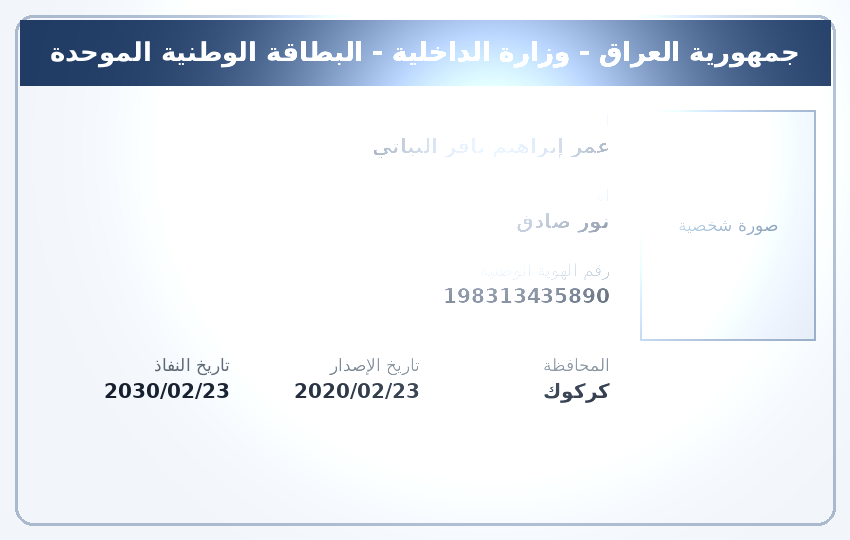
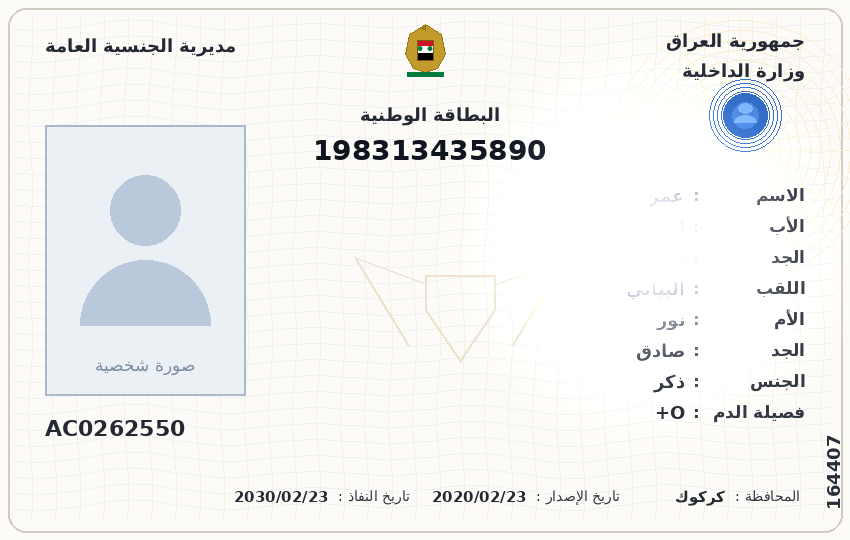
feat(data): redesign national ID to authentic Iraqi layout and update demo samples
- Match authentic Iraqi Unified National Card layout per official guidelines (Arabic-only)
- Add official header, Eagle emblem, prominent ID number, blue holographic rosette, and vertical field hierarchy
- Regenerate national ID samples and updated defect bounding boxes in demo_samples/

diff --git a/src/data/synthetic_generator.py b/src/data/synthetic_generator.py
@@ -6,6 +6,7 @@ exact pixel bounding boxes, and localized optical defects (glare, blur, tilt).
 """
 
 import json
+import math
 import random
 from dataclasses import dataclass
 from pathlib import Path
@@ -215,65 +216,228 @@ def render_national_card(
     identity: dict[str, str],
     fonts: dict[str, ImageFont.FreeTypeFont],
 ) -> tuple[Image.Image, dict[str, DocumentField]]:
-    """Render authentic synthetic front-face Iraqi Unified National Card."""
+    """Render authentic synthetic front-face Iraqi Unified National Card matching official layout."""
     width, height = 850, 540
-    card = Image.new("RGB", (width, height), (242, 246, 250))
+    card = Image.new("RGB", (width, height), (252, 251, 248))
     draw = ImageDraw.Draw(card)
 
-    # Outer border and header banner
-    draw.rounded_rectangle(
-        [(15, 15), (width - 15, height - 15)],
-        radius=18,
-        outline=(170, 185, 205),
-        width=3,
+    dark_gray = (35, 40, 50)
+    label_gray = (50, 55, 65)
+    eagle_gold = (195, 155, 45)
+    iraq_red = (206, 17, 38)
+    iraq_black = (0, 0, 0)
+    iraq_green = (0, 122, 61)
+
+    # Outer card border
+    draw.rounded_rectangle([(8, 8), (width - 8, height - 8)], radius=18, outline=(210, 205, 195), width=2)
+
+    # Background Guilloche / Security Pattern
+    for y_offset in range(25, height - 20, 16):
+        points = []
+        for x_coord in range(12, width - 12, 6):
+            y_coord = y_offset + int(4 * math.sin(x_coord / 28.0) + 2 * math.cos(x_coord / 45.0))
+            points.append((x_coord, y_coord))
+        draw.line(points, fill=(238, 242, 244), width=1)
+
+    for x_offset in range(30, width - 20, 24):
+        points = []
+        for y_coord in range(12, height - 12, 6):
+            x_coord = x_offset + int(3 * math.sin(y_coord / 24.0))
+            points.append((x_coord, y_coord))
+        draw.line(points, fill=(244, 240, 232), width=1)
+
+    # Golden sunburst rosette in top right
+    sun_cx, sun_cy = width - 110, 150
+    for radius in range(30, 140, 10):
+        draw.arc([sun_cx - radius, sun_cy - radius, sun_cx + radius, sun_cy + radius], start=0, end=360, fill=(250, 236, 208), width=1)
+    for angle in range(0, 360, 15):
+        rad = math.radians(angle)
+        x_target = sun_cx + int(135 * math.cos(rad))
+        y_target = sun_cy + int(135 * math.sin(rad))
+        draw.line([(sun_cx, sun_cy), (x_target, y_target)], fill=(252, 241, 218), width=1)
+
+    # Watermark Eagle in center background
+    center_x, center_y, emblem_size = 460, 310, 105
+    draw.polygon([
+        (center_x, center_y + emblem_size // 2),
+        (center_x - emblem_size // 3, center_y),
+        (center_x - emblem_size // 3, center_y - emblem_size // 3),
+        (center_x + emblem_size // 3, center_y - emblem_size // 3),
+        (center_x + emblem_size // 3, center_y),
+    ], outline=(235, 226, 208), width=2)
+    draw.line(
+        [(center_x - emblem_size // 3, center_y - emblem_size // 4), (center_x - emblem_size, center_y - emblem_size // 2), (center_x - emblem_size // 2, center_y + emblem_size // 3)],
+        fill=(235, 226, 208),
+        width=2,
     )
-    draw.rectangle([(20, 20), (width - 20, 85)], fill=(32, 60, 100))
-
-    header_text = format_arabic("جمهورية العراق - وزارة الداخلية - البطاقة الوطنية الموحدة")
-    draw.text(
-        (width // 2, 52),
-        header_text,
-        font=fonts["title"],
-        fill=(255, 255, 255),
-        anchor="mm",
+    draw.line(
+        [(center_x + emblem_size // 3, center_y - emblem_size // 4), (center_x + emblem_size, center_y - emblem_size // 2), (center_x + emblem_size // 2, center_y + emblem_size // 3)],
+        fill=(235, 226, 208),
+        width=2,
     )
 
-    # Photo box placeholder (Right-hand side per standard Iraqi National Card layout)
-    photo_box = [(width - 210, 110), (width - 35, 340)]
-    draw.rectangle(photo_box, fill=(225, 232, 242), outline=(150, 170, 195), width=2)
-    draw.text(
-        (width - 122, 225),
-        format_arabic("صورة شخصية"),
-        font=fonts["label"],
-        fill=(120, 140, 160),
-        anchor="mm",
+    # Top Header (Arabic only, per instruction)
+    header_font = ImageFont.truetype(fonts["header"].path, 18)
+    draw.text((width - 45, 30), format_arabic("جمهورية العراق"), font=header_font, fill=dark_gray, anchor="ra")
+    draw.text((width - 45, 60), format_arabic("وزارة الداخلية"), font=header_font, fill=dark_gray, anchor="ra")
+    draw.text((45, 35), format_arabic("مديرية الجنسية العامة"), font=header_font, fill=dark_gray, anchor="la")
+
+    # Emblem of Iraq (Eagle with Flag Shield)
+    emblem_cx = width // 2
+    emblem_cy = 46
+    draw.polygon([
+        (emblem_cx, emblem_cy - 22), (emblem_cx - 16, emblem_cy - 12),
+        (emblem_cx - 20, emblem_cy + 8), (emblem_cx - 12, emblem_cy + 22),
+        (emblem_cx, emblem_cy + 26), (emblem_cx + 12, emblem_cy + 22),
+        (emblem_cx + 20, emblem_cy + 8), (emblem_cx + 16, emblem_cy - 12),
+    ], fill=eagle_gold, outline=(155, 120, 20), width=1)
+    draw.polygon([(emblem_cx, emblem_cy - 22), (emblem_cx - 6, emblem_cy - 18), (emblem_cx, emblem_cy - 16)], fill=(155, 120, 20))
+    shield_x, shield_y = emblem_cx - 8, emblem_cy - 6
+    draw.rectangle([(shield_x, shield_y), (shield_x + 16, shield_y + 6)], fill=iraq_red)
+    draw.rectangle([(shield_x, shield_y + 6), (shield_x + 16, shield_y + 13)], fill=(255, 255, 255))
+    draw.rectangle([(shield_x, shield_y + 13), (shield_x + 16, shield_y + 20)], fill=iraq_black)
+    draw.rectangle([(shield_x, shield_y), (shield_x + 16, shield_y + 20)], outline=(120, 95, 20), width=1)
+    draw.text((emblem_cx, shield_y + 9), "••", font=fonts["label"], fill=iraq_green, anchor="mm")
+    draw.rectangle([(emblem_cx - 18, emblem_cy + 26), (emblem_cx + 18, emblem_cy + 30)], fill=iraq_green)
+
+    # Title & National ID Number
+    title_font = ImageFont.truetype(fonts["title"].path, 18)
+    id_font = ImageFont.truetype(fonts["title"].path, 28)
+    draw.text((430, 115), format_arabic("البطاقة الوطنية"), font=title_font, fill=dark_gray, anchor="mm")
+    id_bbox = draw.textbbox((430, 150), identity["national_id"], font=id_font, anchor="mm")
+    draw.text((430, 150), identity["national_id"], font=id_font, fill=(15, 20, 30), anchor="mm")
+
+    # Blue Hologram Rosette Top Right
+    rosette_cx, rosette_cy, r_size = width - 105, 115, 36
+    for r_step in range(r_size, 0, -4):
+        draw.ellipse([rosette_cx - r_step, rosette_cy - r_step, rosette_cx + r_step, rosette_cy + r_step], outline=(50, 110, 200), width=1)
+    draw.ellipse([rosette_cx - 22, rosette_cy - 22, rosette_cx + 22, rosette_cy + 22], fill=(45, 105, 195))
+    draw.ellipse([rosette_cx - 13, rosette_cy - 13, rosette_cx + 13, rosette_cy + 13], fill=(70, 130, 220))
+    draw.ellipse([rosette_cx - 7, rosette_cy - 12, rosette_cx + 7, rosette_cy - 2], fill=(120, 175, 245))
+    draw.chord([rosette_cx - 11, rosette_cy, rosette_cx + 11, rosette_cy + 15], start=180, end=0, fill=(120, 175, 245))
+
+    # Citizen Photo on Left
+    photo_rect = [(45, 125), (245, 395)]
+    draw.rectangle(photo_rect, fill=(235, 240, 245), outline=(170, 185, 200), width=2)
+    draw.ellipse([(110, 175), (180, 245)], fill=(185, 200, 218))
+    draw.chord([(80, 260), (210, 390)], start=180, end=0, fill=(185, 200, 218))
+    draw.text((145, 365), format_arabic("صورة شخصية"), font=fonts["label"], fill=(120, 140, 160), anchor="mm")
+
+    # Document Access Code bottom-left
+    code_font = ImageFont.truetype(fonts["title"].path, 22)
+    draw.text((45, 415), "AC0262550", font=code_font, fill=dark_gray, anchor="la")
+
+    # Right side fields (stacked hierarchy)
+    field_label_font = ImageFont.truetype(fonts["value"].path, 17)
+    field_value_font = ImageFont.truetype(fonts["value"].path, 18)
+
+    words = identity["full_name"].split()
+    father = identity.get("father_name", "")
+    given = words[0] if words else ""
+    surname = words[-1] if len(words) > 1 else ""
+    middle = words[1:-1]
+    if father in middle:
+        f_idx = middle.index(father)
+        grandfather = " ".join(middle[f_idx + 1:])
+    else:
+        grandfather = " ".join(middle[1:]) if len(middle) > 1 else ""
+
+    mother_parts = identity["mother_name"].split()
+    mother_given = mother_parts[0] if len(mother_parts) > 0 else identity["mother_name"]
+    mother_father = mother_parts[1] if len(mother_parts) > 1 else ""
+
+    right_label_x = width - 45
+    colon_x = width - 150
+    value_x = colon_x - 15
+
+    items = [
+        ("الاسم", given),
+        ("الأب", father),
+        ("الجد", grandfather),
+        ("اللقب", surname),
+        ("الأم", mother_given),
+        ("الجد", mother_father),
+        ("الجنس", "ذكر"),
+        ("فصيلة الدم", "+O"),
+    ]
+
+    y_start = 185
+    line_h = 31
+    value_boxes = []
+
+    for index, (label_str, val_str) in enumerate(items):
+        curr_y = y_start + index * line_h
+        draw.text((right_label_x, curr_y), format_arabic(label_str), font=field_label_font, fill=label_gray, anchor="ra")
+        draw.text((colon_x, curr_y), ":", font=field_label_font, fill=label_gray, anchor="ra")
+        formatted_val = format_arabic(val_str)
+        val_bbox = draw.textbbox((value_x, curr_y), formatted_val, font=field_value_font, anchor="ra")
+        draw.text((value_x, curr_y), formatted_val, font=field_value_font, fill=dark_gray, anchor="ra")
+        value_boxes.append(val_bbox)
+
+    name_bboxes = value_boxes[0:4]
+    full_name_bbox = (
+        min(b[0] for b in name_bboxes),
+        min(b[1] for b in name_bboxes),
+        max(b[2] for b in name_bboxes),
+        max(b[3] for b in name_bboxes),
     )
 
-    fields: dict[str, DocumentField] = {}
-    base_x = width - 240
+    mother_bboxes = value_boxes[4:6]
+    mother_name_bbox = (
+        min(b[0] for b in mother_bboxes),
+        min(b[1] for b in mother_bboxes),
+        max(b[2] for b in mother_bboxes),
+        max(b[3] for b in mother_bboxes),
+    )
 
-    bbox = draw_arabic_field(draw, "الاسم الكامل", identity["full_name"], (base_x, 110), fonts)
-    fields["full_name"] = DocumentField("full_name", identity["full_name"], bbox)
+    # Vertical serial number on right edge
+    serial_img = Image.new("RGBA", (100, 30), (255, 255, 255, 0))
+    serial_draw = ImageDraw.Draw(serial_img)
+    serial_draw.text((0, 5), "164407", font=ImageFont.truetype(fonts["title"].path, 18), fill=(40, 45, 55))
+    rot_serial = serial_img.rotate(90, expand=True)
+    card.paste(rot_serial, (width - 32, height - 130), rot_serial)
 
-    bbox = draw_arabic_field(draw, "اسم الأم", identity["mother_name"], (base_x, 185), fonts)
-    fields["mother_name"] = DocumentField("mother_name", identity["mother_name"], bbox)
+    # Bottom metadata row: province, issue date, expiry date
+    bot_y = height - 52
+    field_small_label = ImageFont.truetype(fonts["label"].path, 14)
+    field_small_val = ImageFont.truetype(fonts["value"].path, 15)
 
-    bbox = draw_arabic_field(draw, "رقم الهوية الوطنية", identity["national_id"], (base_x, 260), fonts)
-    fields["national_id"] = DocumentField("national_id", identity["national_id"], bbox)
+    # Province
+    p_label = format_arabic("المحافظة : ")
+    p_x = width - 50
+    draw.text((p_x, bot_y), p_label, font=field_small_label, fill=label_gray, anchor="ra")
+    p_lbl_bbox = draw.textbbox((p_x, bot_y), p_label, font=field_small_label, anchor="ra")
+    p_val_x = p_lbl_bbox[0] - 6
+    formatted_prov = format_arabic(identity["province"])
+    province_bbox = draw.textbbox((p_val_x, bot_y), formatted_prov, font=field_small_val, anchor="ra")
+    draw.text((p_val_x, bot_y), formatted_prov, font=field_small_val, fill=dark_gray, anchor="ra")
 
-    # Bottom metadata row
-    col3_x = base_x
-    col2_x = base_x - 190
-    col1_x = base_x - 380
+    # Issue Date
+    iss_label = format_arabic("تاريخ الإصدار : ")
+    iss_x = width - 230
+    draw.text((iss_x, bot_y), iss_label, font=field_small_label, fill=label_gray, anchor="ra")
+    iss_lbl_bbox = draw.textbbox((iss_x, bot_y), iss_label, font=field_small_label, anchor="ra")
+    iss_val_x = iss_lbl_bbox[0] - 6
+    issue_date_bbox = draw.textbbox((iss_val_x, bot_y), identity["issue_date"], font=field_small_val, anchor="ra")
+    draw.text((iss_val_x, bot_y), identity["issue_date"], font=field_small_val, fill=dark_gray, anchor="ra")
 
-    bbox = draw_arabic_field(draw, "المحافظة", identity["province"], (col3_x, 355), fonts)
-    fields["province"] = DocumentField("province", identity["province"], bbox)
+    # Expiry Date
+    exp_label = format_arabic("تاريخ النفاذ : ")
+    exp_x = width - 440
+    draw.text((exp_x, bot_y), exp_label, font=field_small_label, fill=label_gray, anchor="ra")
+    exp_lbl_bbox = draw.textbbox((exp_x, bot_y), exp_label, font=field_small_label, anchor="ra")
+    exp_val_x = exp_lbl_bbox[0] - 6
+    expiry_date_bbox = draw.textbbox((exp_val_x, bot_y), identity["expiry_date"], font=field_small_val, anchor="ra")
+    draw.text((exp_val_x, bot_y), identity["expiry_date"], font=field_small_val, fill=dark_gray, anchor="ra")
 
-    bbox = draw_arabic_field(draw, "تاريخ الإصدار", identity["issue_date"], (col2_x, 355), fonts)
-    fields["issue_date"] = DocumentField("issue_date", identity["issue_date"], bbox)
-
-    bbox = draw_arabic_field(draw, "تاريخ النفاذ", identity["expiry_date"], (col1_x, 355), fonts)
-    fields["expiry_date"] = DocumentField("expiry_date", identity["expiry_date"], bbox)
+    fields = {
+        "national_id": DocumentField("national_id", identity["national_id"], id_bbox),
+        "full_name": DocumentField("full_name", identity["full_name"], full_name_bbox),
+        "mother_name": DocumentField("mother_name", identity["mother_name"], mother_name_bbox),
+        "province": DocumentField("province", identity["province"], province_bbox),
+        "issue_date": DocumentField("issue_date", identity["issue_date"], issue_date_bbox),
+        "expiry_date": DocumentField("expiry_date", identity["expiry_date"], expiry_date_bbox),
+    }
 
     return card, fields
 
@@ -364,7 +528,7 @@ def render_tax_card(
 def inject_specular_glare(
     image: Image.Image,
     target_bbox: tuple[int, int, int, int],
-    intensity: float = 0.85,
+    intensity: float = 0.95,
 ) -> Image.Image:
     """Inject realistic specular glare hotspot placed directly over target bounding box."""
     # yagni: radial 2D Gaussian glare; 3D ray-tracing shader if physical reflection calibration demands it
